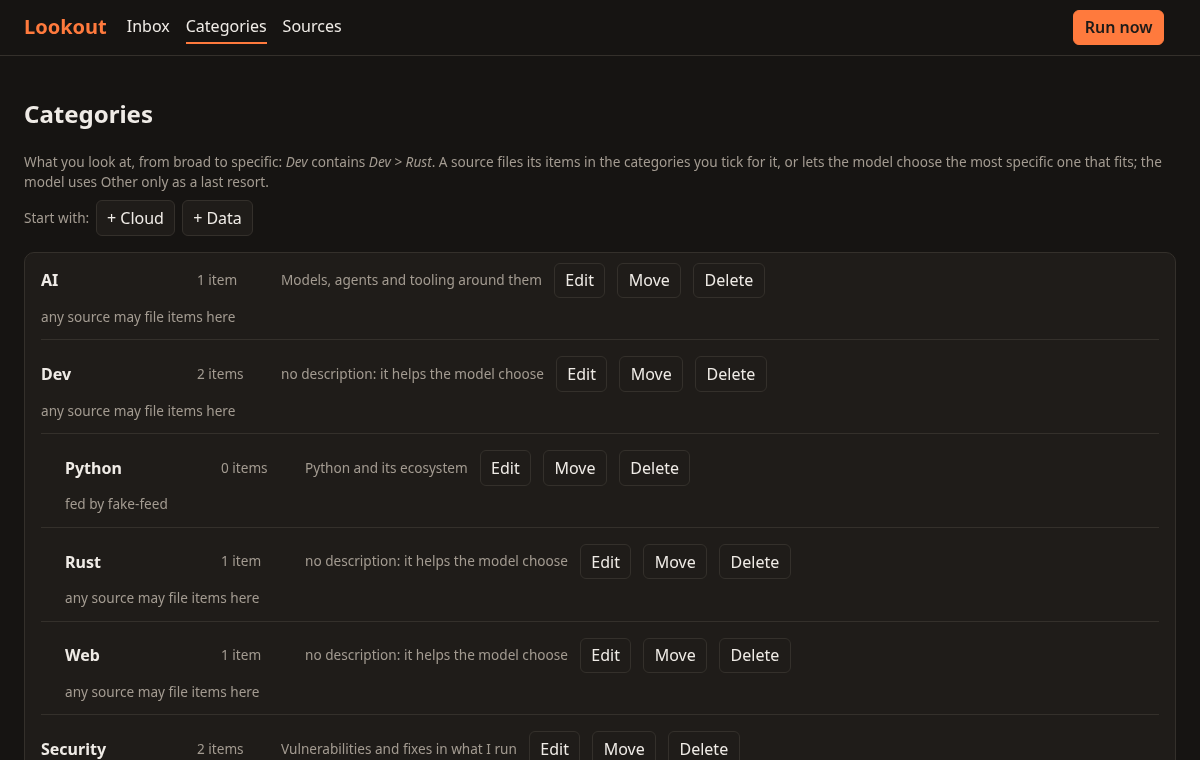
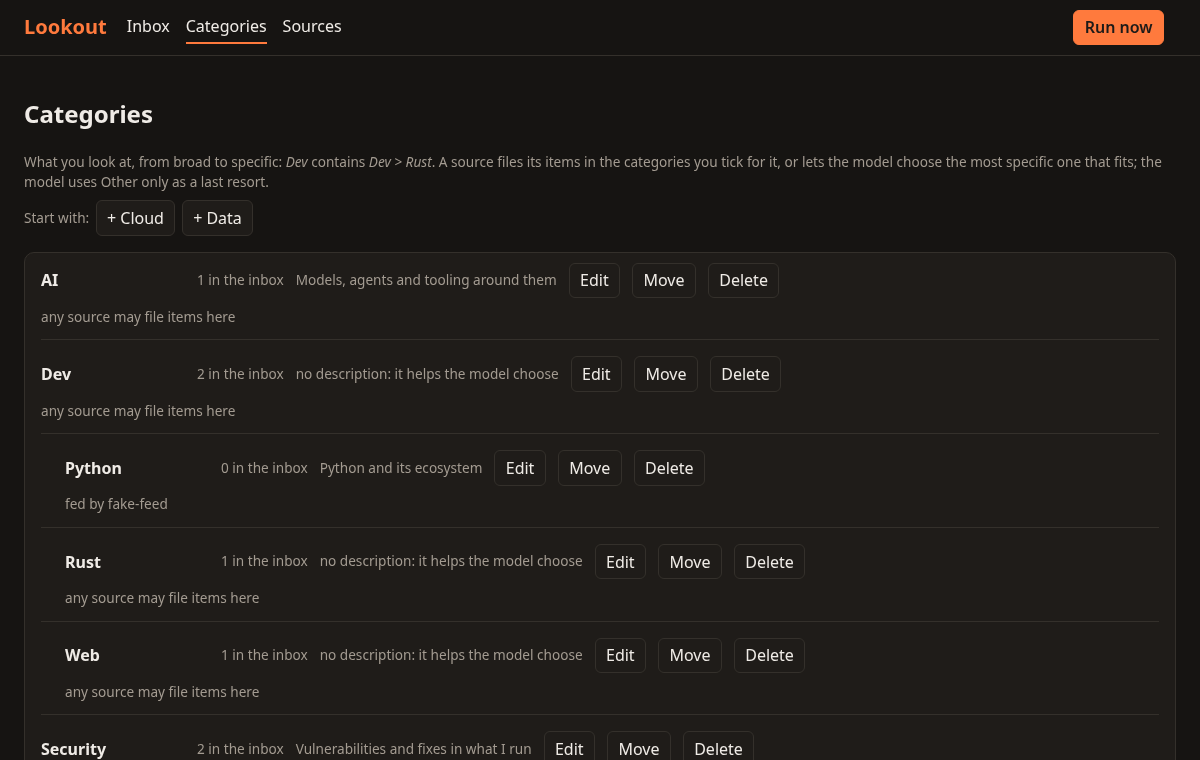
fix(dashboard): lay out the item detail panel properly (#43)
The row layout's indent and two-line clamp applied to the detail panel too, squeezing the
summary into a narrow column and cutting it off. They now apply to rows only, and the title
no longer gets a hover background.

diff --git a/frontend/src/styles.css b/frontend/src/styles.css
@@ -663,12 +663,15 @@ select {
   font-size: 1rem;
   line-height: 1.35;
 }
-.meta,
-.tags,
-.summary {
+.title:hover {
+  background: none;
+}
+.item-body .meta,
+.item-body .tags,
+.item-body .summary {
   margin-left: calc(var(--badge-col) + 0.75rem);
 }
-.summary {
+.item-body .summary {
   color: var(--muted);
   display: -webkit-box;
   -webkit-line-clamp: 2;
@@ -698,9 +701,9 @@ select {
   .item-head {
     flex-wrap: wrap;
   }
-  .meta,
-  .tags,
-  .summary {
+  .item-body .meta,
+  .item-body .tags,
+  .item-body .summary {
     margin-left: 0;
   }
 }
